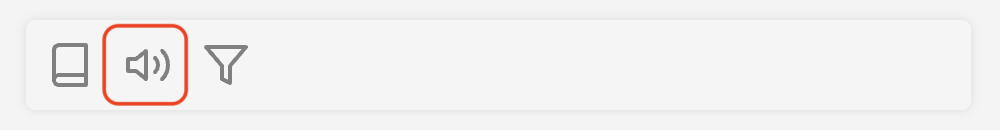
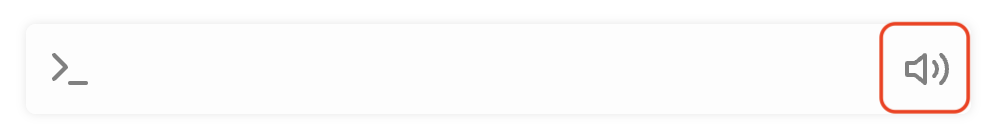
new guide

Changed region(s): [[0.031, 0.1538, 0.248, 0.8308], [0.868, 0.1538, 0.992, 0.8308]]

diff --git a/components/icons/AudioButtonSVG.js b/components/icons/AudioButtonSVG.js
@@ -1,0 +1,11 @@
+import React from 'react';
+
+export default function AudioButtonSVG({ className = '', onClick, dimensions = '24', enabled = false, ...rest }) {
+    return (
+        <svg xmlns="http://www.w3.org/2000/svg" width={dimensions} height={dimensions} className={`${className} borderless-svg`} viewBox="0 0 24 24" fill="none" stroke="currentColor" strokeWidth="2" strokeLinecap="round" strokeLinejoin="round" {...rest}>
+            <polygon points="11 5 6 9 2 9 2 15 6 15 11 19 11 5"></polygon>
+            <path d="M19.07 4.93a10 10 0 0 1 0 14.14"></path>
+            <path d="M15.54 8.46a5 5 0 0 1 0 7.07"></path>
+        </svg>
+    );
+}

diff --git a/components/icons/ResetButtonSVG.js b/components/icons/ResetButtonSVG.js
@@ -1,0 +1,11 @@
+import React from 'react';
+
+export default function LayerButtonSVG({ className = '', onClick, dimensions = '24', enabled = false, ...rest }) {
+    return (
+        <svg xmlns="http://www.w3.org/2000/svg" width="24" height="24" viewBox="0 0 24 24" fill="none" stroke="currentColor" stroke-width="2" stroke-linecap="round" stroke-linejoin="round" class="feather feather-refresh-ccw">
+            <polyline points="1 4 1 10 7 10"></polyline>
+            <polyline points="23 20 23 14 17 14"></polyline>
+            <path d="M20.49 9A9 9 0 0 0 5.64 5.64L1 10m22 4l-4.64 4.36A9 9 0 0 1 3.51 15"></path>
+        </svg>
+    );
+}

diff --git a/components/icons/BookButtonSVG.js b/components/icons/BookButtonSVG.js
@@ -1,0 +1,10 @@
+import React from 'react';
+
+export default function BookButtonSVG({ className = '', onClick, dimensions = '24', enabled = false, ...rest }) {
+    return (
+        <svg xmlns="http://www.w3.org/2000/svg" width={dimensions} height={dimensions} className={`${className} borderless-svg`} viewBox="0 0 24 24" fill="none" stroke="currentColor" strokeWidth="2" strokeLinecap="round" strokeLinejoin="round" {...rest}>
+            <path d="M4 19.5A2.5 2.5 0 0 1 6.5 17H20"></path>
+            <path d="M6.5 2H20v20H6.5A2.5 2.5 0 0 1 4 19.5v-15A2.5 2.5 0 0 1 6.5 2z"></path>
+        </svg>
+    );
+}

diff --git a/components/icons/GenerateButtonSVG.js b/components/icons/GenerateButtonSVG.js
@@ -1,0 +1,11 @@
+import React from 'react';
+
+export default function GenerateButtonSVG({ className = '', onClick, dimensions = '24', enabled = false, ...rest }) {
+    return (
+        <svg xmlns="http://www.w3.org/2000/svg" width="24" height="24" viewBox="0 0 24 24" fill="none" stroke="currentColor" stroke-width="2" stroke-linecap="round" stroke-linejoin="round" class="feather feather-arrow-up">
+            <rect x="1" y="1" width="22" height="22" rx="2" />
+            <line x1="12" y1="19" x2="12" y2="5"></line>
+            <polyline points="5 12 12 5 19 12"></polyline>
+        </svg>
+    );
+}

diff --git a/components/icons/LayerButtonSVG.js b/components/icons/LayerButtonSVG.js
@@ -1,0 +1,12 @@
+import React from 'react';
+
+export default function LayerButtonSVG({ className = '', onClick, dimensions = '24', enabled = false, ...rest }) {
+    return (
+        <svg xmlns="http://www.w3.org/2000/svg" width="24" height="24" viewBox="0 0 24 24" fill="none" stroke="currentColor" strokeWidth="2" strokeLinecap="round" strokeLinejoin="round">
+            <polygon points="12 2 2 7 12 12 22 7 12 2"></polygon>
+            <polyline points="2 17 12 22 22 17"></polyline>
+            <polyline points="2 12 12 17 22 12"></polyline>
+        </svg>
+    );
+}
+

diff --git a/components/icons/PromptButtonSVG.js b/components/icons/PromptButtonSVG.js
@@ -1,0 +1,10 @@
+import React from 'react';
+
+export default function LayerButtonSVG({ className = '', onClick, dimensions = '24', enabled = false, ...rest }) {
+    return (
+        <svg xmlns="http://www.w3.org/2000/svg" width="24" height="24" viewBox="0 0 24 24" fill="none" stroke="currentColor" strokeWidth="2" strokeLinecap="round" strokeLinejoin="round">
+            <polyline points="4 17 10 11 4 5"></polyline>
+            <line x1="12" y1="19" x2="20" y2="19"></line>
+        </svg>
+    );
+}

diff --git a/components/stylesheet.css b/components/stylesheet.css
@@ -1,0 +1,5 @@
+.borderless-svg {
+    cursor: auto;
+    stroke: rgb(128, 128, 128);
+    border: none;
+}
